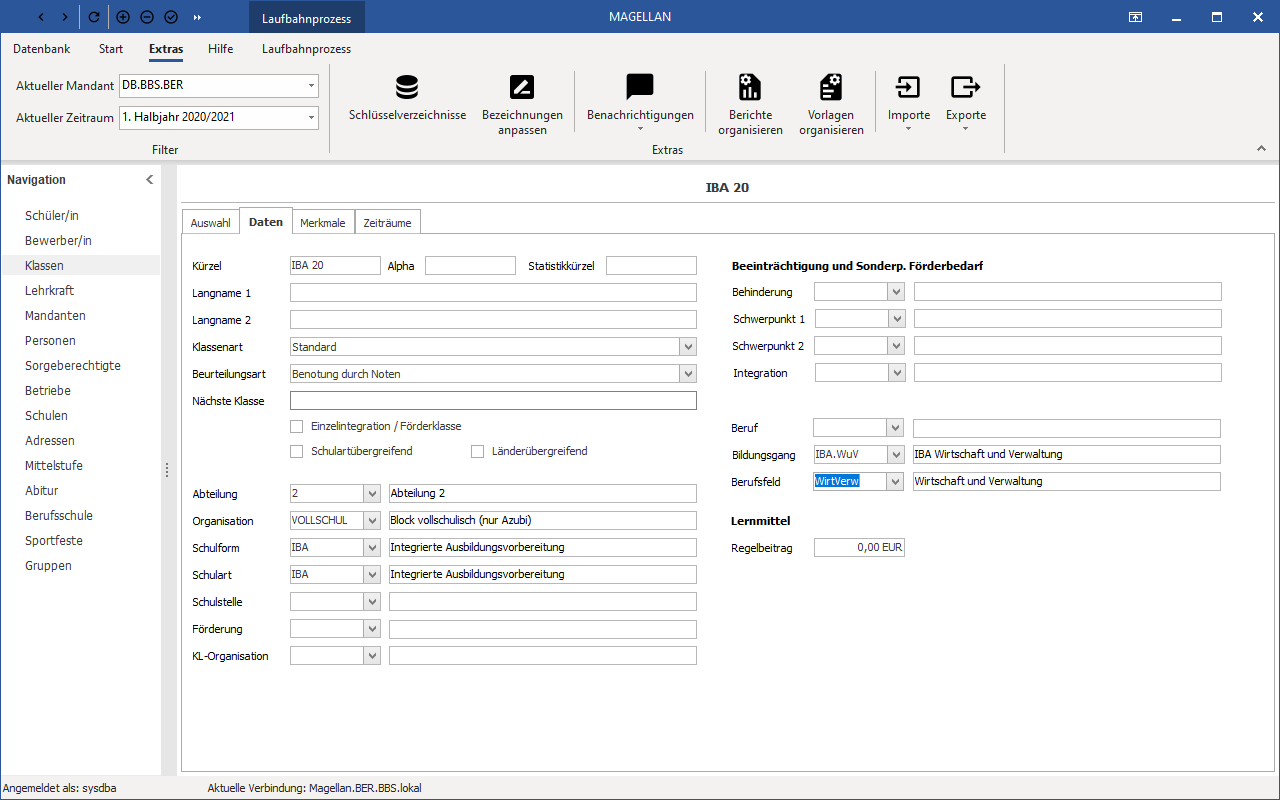
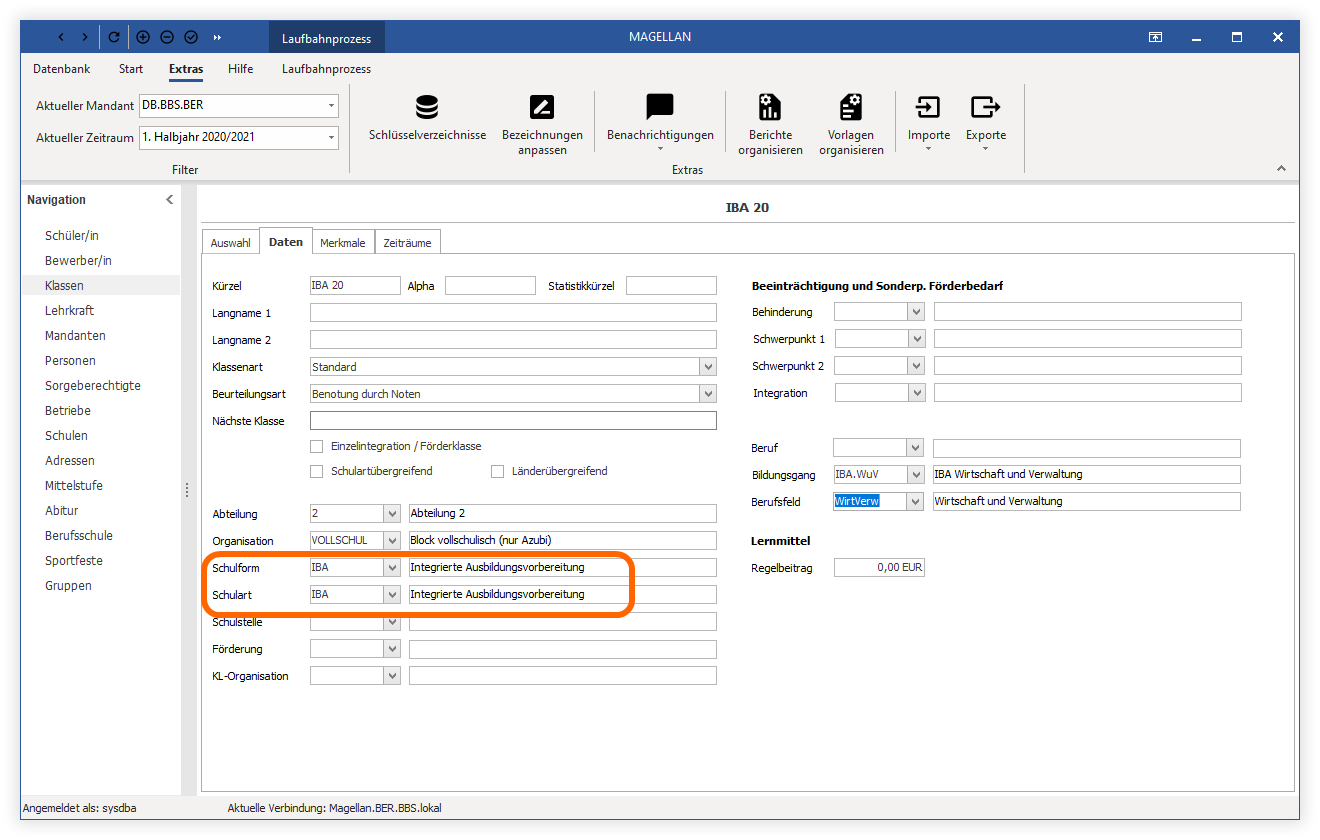
no message

Changed region(s): [[0.0, 0.0, 1.0, 1.0], [0.0, 0.9375, 0.0938, 1.0]]

diff --git a/docs/berichte/zeugnisse/ber/BER-Schul Z 302 (11.19).md b/docs/berichte/zeugnisse/ber/BER-Schul Z 302 (11.19).md
@@ -2,13 +2,38 @@
 
 Schul Z 302 - Zeugnis der Qualifikationsphase der gymnasialen Oberstufe (Gymnasium, ISS, Gemeinschaftsschule, berufliches Gymnasium) – (11.19)
 
-## Fehltage und/oder Fehlstunden
+## Ausdruck
 
-`Schueler > Zeugnis > Details > Fehltage und/oder Fehlstunden`
+Der Bericht muss aus dem Menu `Drucken > Zeugnis Drucken` (Strg + Z) gedruckt werden.
+Das Zeugnis/der Bericht muss aus dem Menü "Schüler" gedruckt werden.
 
-Die Angabe der Fehltage und/oder der Fehlstunden muss im entsprechenden Zeitraum im Menü `Schüler > Zeugnis > Details` in den Feldern "Fehltage", "davon unentschuldigt", "Fehlstunden" und "davon unentschuldigt" erfolgen.
+### G8/G9 Zeugnis
 
-## Aufgabenbereich
+`Klassen > Merkmale > Merkmal S4`
+
+Das Zeugnis kann sowohl für G8 als auch G9 genutzt werden.Tragen Sie im Menü  `Klasse > Merkmale` die im Feld „Merkmal S4“ für "G8"bitte "G8"  und für  "G9"bitte "G9" ein.
+
+Grundlage hierfür bildet das `Schlüsselverzeichnis > Klassenmerkmale`. Ergänzen Sie es um die Einträge "G8" und "G9".
+
+## Zeiträume
+
+`Extras > Schlüsselverzeichnis > Zeiträume > Ausdruck 1`
+
+Die Ausgabe des Schuljahres erfolgt aufgrund der Definition des aktuellen Zeitraums in MAGELLAN `Schlüsselverzeichnis > Zeiträume`. Ausgegeben wird hierbei der Eintrag in der Spalte "Ausdruck1".
+
+## Benotung
+
+`Klassen > Daten > Beurteilungsart`
+
+Im Menü "Klassen" muss bei der Klasse des Schülers auf der Registerkarte Daten im Feld "Beurteilungsart" "Benotung durch Punkte" angegeben sein.
+
+## Schriftart
+
+Damit das Zeugnis/der Bericht korrekt ausgedruckt wird, muss die vom Senat für den Zeugnisdruck vorgegebene Schriftart SenBJS auf Ihrem Rechner installiert sein.
+
+## Aufgabenbereich, Unterrichtsarten
+
+### Aufgabenbereich
 
 `Extras > Schlüsselverzeichnisse > Fächer > Aufgabenbereich`
 
@@ -22,7 +47,7 @@ mathem.-nat.-technisch | Mathem.-naturwissenschaftl.-techn. Aufgabenfeld
 Sport | Weitere Fächer
 Religion | Weitere Fächer
 
-## Unterrichtsarten
+### Unterrichtsarten
 
 `Extras > Schlüsselverzeichnisse > Unterrichtsarten`
 
@@ -35,94 +60,36 @@ Kürzel | Schlüssel | Zeugnisbereich
 LK | LK | Leistungskurse
 GK | GK | Grundkurse
 
-## Merkmale für Zeugnisbemerkungen
+## Schulleiter, Tutor, Lehrer
 
-`Schüler > Zeugnis > Bemerkungen/Formulare > Merkmale`
+`Mandanten > Daten > Schulleiter`<br/>`Schüler > Zeugnis > Details > Tutor`
 
-Bei den Zeugnisbemerkungen müssen verschiedene Typen der Bemerkung unterschieden werden. Die Unterscheidung erfolgt durch den Eintrag in der Spalte "Merkmal" unter Schlüsselverzeichnis Zeugnisbemerkungen, falls es sich um allgemeingültige Zeugnisbemerkungen handelt, oder beim Schüler, falls Sie diesem eine individuelle Zeugnisbemerkung zuweisen möchten. Die Zuweisung von Zeugnisbemerkungen erfolgt im Menü `Schüler > Zeugnis > Bemerkungen/Formulare`. Wenn Sie die Schaltfläche "Hinzufügen" anklicken, können Sie eine Zeugnisbemerkung auswählen und zuweisen. Erfolgt keine Eingabe in der Spalte "Merkmal", so wird die Bemerkung unter "allgemeinen Bemerkungen" auf dem Zeugnisdruck ausgegeben.
+Tragen Sie den Schulleiter (analog Tutor) ein, Sie können dabei in der Liste auf einen im Menü `Lehrer` erfassten Datensatz zugreifen. Bitte stellen Sie sicher, dass dem ausgewählten Lehrerdatensatz das Geschlecht zugewiesen wurde.
 
-Folgende Kürzel im Feld "Merkmal" dürfen für den Zeugnisdruck verwendet werden:
+## Mandanten
 
-## Bemerkungstext zur Ausgabe eines Beiblattes
-
-`Schüler > Zeugnis > Bemerkungen/Formulare > Merkmale`
-
-Die Ausgabe des Bemerkungstext: "Ein Beiblatt (Schul Z 620) ist Bestandteil dieses Zeugnisses:
-
-☐ ja
-
-☐ nein
-
-1)." wird wie folgt gesteuert:
-
-Liegt eine Zeugnisbemerkung mit dem Merkmal "Beiblatt" beim Schüler vor, kommt der Text in der Bemerkung: “Ein Beiblatt (Schul Z 620) ist Bestandteil dieses Zeugnisses.”
-
-Liegt dieses Merkaml nicht vor, kommt der Text in der Bemerkung: “Ein Beiblatt (Schul Z 620) ist nicht Bestandteil dieses Zeugnisses.”
-
-## Schulname
+### Schulname 1
 
 `Mandanten > Daten > Name 1`
 
 Tragen Sie die Bezeichnung Ihrer Schule im Menü "Mandanten" auf der Registerkarte "Daten 1" im Feld "Name
 1" ein.
 
-## Zeiträume
+### Schulname 2
 
-`Extras > Schlüsselverzeichnis > Zeiträume > Ausdruck 1`
+`Mandanten > Daten > Name 2`
 
-Die Ausgabe des Schuljahres erfolgt aufgrund der Definition des aktuellen Zeitraums in MAGELLAN `Schlüsselverzeichnis > Zeiträume`. Ausgegeben wird hierbei der Eintrag in der Spalte "Ausdruck1".
+Tragen Sie die Namenszusätze Ihrer Schule im Menü `Mandanten > Daten 1` im Feld "Name 2" ein.
 
-## Zeugnisdatum
-
-`Schüler > Zeugnis > Details > Zeugnisdatum`
-
-Im entsprechenden Zeitraum muss das Zeugnisdatum im Menü `Schüler > Zeugnis > Details` im Feld "Zeugnisdatum" eingetragen sein. Das Zeugnisdatum kann auch per Sammelzuweisung zugewiesen werden, den Aufruf für die Sammelzuweisung finden Sie am oberen Rand der Karte `Details`.
-
-## Ausdruck
-
-Das Zeugnis/der Bericht muss aus dem Menü "Schüler" gedruckt werden.
-
-## Fächerpositionierung
-
- `Schüler > Zeugnis > Fächer (Position) bzw. Abitur > Qualifikation (Position)`
-
-Für die Sortierung der Fächer auf den Zeugnissen muss im Menü "Schüler" bei jedem Schüler auf der Registerkarte Zeugnis > Fächer bzw. im Menü Abitur bei jedem Schüler auf der Registerkarte "Qualifikation" pro
-Fach eine Position in der Spalte "Position" angegeben werden.
-
-## Zeugnisbemerkungen
-
-`Schüler > Zeugnis > Formulare/Zeugnisbemerkungen`
-
-Die Zuweisung von Zeugnisbemerkungen erfolgt im Menü `Schüler > Zeugnis > Formulare/Zeugnisbemerkungen`. Wenn Sie die Schaltfläche "Hinzufügen" anklicken, können Sie eine Zeugnisbemerkung definieren, die ausschließlich für den markierten Schüler gültig ist oder eine zuvor in den Verzeichnissen definiert allgemeingültige Zeugnisbemerkung auswählen und zuweisen.
-Für die Ausgabe der Zeugnisbemerkungen muss über das Feld "Position" eine Reihenfolge (Nummerierung) vorgegeben werden. Z.B. für die Ausgabe der ersten Bemerkung "1", für die Ausgabe der zweiten Bemerkung "2" usw.
-
-## Bezirk der Schule
+### Bezirk der Schule
 
 `Mandanten > Daten 1 > Name 3`
 
 Tragen Sie den Bezirk Ihrer Schule im Menü `Mandanten > Daten 1` im Feld "Name 3" ein.
 
-## Benotung
+## Fächer
 
-`Klassen > Daten > Beurteilungsart`
-
-Im Menü "Klassen" muss bei der Klasse des Schülers auf der Registerkarte Daten im Feld "Beurteilungsart" "Benotung durch Punkte" angegeben sein.
-
-## Schriftart
-
-Damit das Zeugnis/der Bericht korrekt ausgedruckt wird, muss die vom Senat für den Zeugnisdruck vorgegebene Schriftart SenBJS auf Ihrem Rechner installiert sein.
-
-## Versäumnisse
-
-`Schüler > Zeugnis > Details > Versäumnisse`
-
-Tragen Sie die "Verspätungen" im entsprechenden Zeitraum im Menü `Schüler > Zeugnis > Details` im Feld "Versäumnisse" ein.
-
-## Ausdruck
-
-Der Bericht muss aus dem Menu `Drucken > Zeugnis Drucken` (Strg + Z) gedruckt werden.
-
-## Fächerkategorie
+### Fächerkategorie
 
 `Extras > Schlüsselverzeichnisse > Fächer > Kategorie`
 
@@ -150,25 +117,75 @@ Jedes Fach muss in MAGELLAN im `Schlüsselverzeichnis > Fächer` in Spalte "Kate
 |SportTheorie|
 |Seminar|
 
-## Seminarfach
+### Fächerpositionierung
+
+ `Schüler > Zeugnis > Fächer (Position) bzw. Abitur > Qualifikation (Position)`
+
+Für die Sortierung der Fächer auf den Zeugnissen muss im Menü "Schüler" bei jedem Schüler auf der Registerkarte Zeugnis > Fächer bzw. im Menü Abitur bei jedem Schüler auf der Registerkarte "Qualifikation" pro
+Fach eine Position in der Spalte "Position" angegeben werden.
+
+### Seminarfach
 
 `Extras > Schlüsselverzeichnisse > Fächer > Kategorie`
 
 Um das Seminarfach auszugeben, weisen Sie dem jeweiligen Fach im `Schlüsselverzeichnis > Fächer` im Feld "Kategorie" den Eintrag "Seminar" zu.
 
-## Schulname
-
-`Mandanten > Daten > Name 2`
-
-Tragen Sie die Namenszusätze Ihrer Schule im Menü `Mandanten > Daten 1` im Feld "Name 2" ein.
-
-## Kategorie der Fächer
+### Kategorie der Fächer
 
 `Extras > Schlüsselverzeichnisse > Fächer > Kategorie`
 
 Bitte versehen Sie Ihre Fächer im `Schlüsselverzeichnis > Fächer` in  Spalte "Kategorie" mit den dafür vorgesehenen Kategorien. Fremdsprachen weisen Sie aus dem Pull-Down-Menü „Fremdsprache“ zu.
 
-## Platzhalter in Zeugnisbemerkungen
+## Zeugnis > Details
+
+### Versäumnisse
+
+`Schüler > Zeugnis > Details > Versäumnisse`
+
+Tragen Sie die "Verspätungen" im entsprechenden Zeitraum im Menü `Schüler > Zeugnis > Details` im Feld "Versäumnisse" ein.
+
+### Zeugnisdatum
+
+`Schüler > Zeugnis > Details > Zeugnisdatum`
+
+Im entsprechenden Zeitraum muss das Zeugnisdatum im Menü `Schüler > Zeugnis > Details` im Feld "Zeugnisdatum" eingetragen sein. Das Zeugnisdatum kann auch per Sammelzuweisung zugewiesen werden, den Aufruf für die Sammelzuweisung finden Sie am oberen Rand der Karte `Details`.
+
+### Fehltage und/oder Fehlstunden
+
+`Schueler > Zeugnis > Details > Fehltage und/oder Fehlstunden`
+
+Die Angabe der Fehltage und/oder der Fehlstunden muss im entsprechenden Zeitraum im Menü `Schüler > Zeugnis > Details` in den Feldern "Fehltage", "davon unentschuldigt", "Fehlstunden" und "davon unentschuldigt" erfolgen.
+
+## Zeugnisbemerkungen
+
+### Zeugnisbemerkungen
+
+`Schüler > Zeugnis > Formulare/Zeugnisbemerkungen`
+
+Die Zuweisung von Zeugnisbemerkungen erfolgt im Menü `Schüler > Zeugnis > Formulare/Zeugnisbemerkungen`. Wenn Sie die Schaltfläche "Hinzufügen" anklicken, können Sie eine Zeugnisbemerkung definieren, die ausschließlich für den markierten Schüler gültig ist oder eine zuvor in den Verzeichnissen definiert allgemeingültige Zeugnisbemerkung auswählen und zuweisen.
+Für die Ausgabe der Zeugnisbemerkungen muss über das Feld "Position" eine Reihenfolge (Nummerierung) vorgegeben werden. Z.B. für die Ausgabe der ersten Bemerkung "1", für die Ausgabe der zweiten Bemerkung "2" usw.
+
+### Beiblatt
+
+`Schüler > Zeugnis > Bemerkungen/Formulare > Merkmale`
+
+Bei den Zeugnisbemerkungen müssen verschiedene Typen der Bemerkung unterschieden werden. Die Unterscheidung erfolgt durch den Eintrag in der Spalte "Merkmal" unter Schlüsselverzeichnis Zeugnisbemerkungen, falls es sich um allgemeingültige Zeugnisbemerkungen handelt, oder beim Schüler, falls Sie diesem eine individuelle Zeugnisbemerkung zuweisen möchten. Die Zuweisung von Zeugnisbemerkungen erfolgt im Menü `Schüler > Zeugnis > Bemerkungen/Formulare`. Wenn Sie die Schaltfläche "Hinzufügen" anklicken, können Sie eine Zeugnisbemerkung auswählen und zuweisen. Erfolgt keine Eingabe in der Spalte "Merkmal", so wird die Bemerkung unter "allgemeinen Bemerkungen" auf dem Zeugnisdruck ausgegeben.
+
+Folgende Kürzel im Feld "Merkmal" dürfen für den Zeugnisdruck verwendet werden:
+
+Die Ausgabe des Bemerkungstext: "Ein Beiblatt (Schul Z 620) ist Bestandteil dieses Zeugnisses:
+
+☐ ja
+
+☐ nein
+
+1)." wird wie folgt gesteuert:
+
+Liegt eine Zeugnisbemerkung mit dem Merkmal "Beiblatt" beim Schüler vor, kommt der Text in der Bemerkung: “Ein Beiblatt (Schul Z 620) ist Bestandteil dieses Zeugnisses.”
+
+Liegt dieses Merkmal nicht vor, kommt der Text in der Bemerkung: “Ein Beiblatt (Schul Z 620) ist nicht Bestandteil dieses Zeugnisses.”
+
+### Platzhalter
 
 `Schüler > Zeugnis > Bemerkungen/Formulare`und `Abitur > Abitur > Zeugnis > Zeugnisbemerkungen` und `Berufsschule > Zeugnisbemerkungen`
 
@@ -196,11 +213,3 @@ Platzhalter in MAGELLAN | Anzeige im Bericht
 `<<DerSchueler_DieSchuelerin>>` | Der Schüler/Die Schülerin je nach Geschlecht des Schülers)** 
 `<<derSchueler_dieSchuelerin>>` | der Schüler/die Schülerin (je nach Geschlecht des Schülers)** 
 `<<DemSchueler_DerSchuelerin>>` | Dem Schüler/Der Schülerin (je nach Geschlecht des Schülers)
-
-## G8/G9 Zeugnis
-
-`Klassen > Merkmale > Merkmal S4`
-
-Das Zeugnis kann sowohl für G8 als auch G9 genutzt werden.Tragen Sie im Menü  `Klasse > Merkmale` die im Feld „Merkmal S4“ für "G8"bitte "G8"  und für  "G9"bitte "G9" ein.
-
-Grundlage hierfür bildet das `Schlüsselverzeichnis > Klassenmerkmale`. Ergänzen Sie es um die Einträge "G8" und "G9".

diff --git a/docs/03.ber/ber-iba-as-2020dws.md b/docs/03.ber/ber-iba-as-2020dws.md
@@ -1,6 +1,6 @@
 # BER-IBA-AS-2020.dws
 
-[1]:/assets/images/Berlin/iba01.png "Noteneingabe der Besonderen Lernleistung"
+[1]:/assets/images/Berlin/iba01.png "Schulform und Schulart der Klasse"
 [2]:/assets/images/Berlin/iba02.png "Geben Sie hier die Berechnungsverordnung mit der Kategorie „Versetzung“ ein."
 [3]:/assets/images/Berlin/iba03.png "`Schüler > Zeugnis > Fächer` Unterrichtsart "BÜ", "FachT" und "FachP""
 [4]:/assets/images/Berlin/iba04.png "`Schüler > Zeugnis > Fächer` Fachstatus "WahlB""
@@ -47,7 +47,7 @@ folgendes Kürzel an:
 
 Tragen Sie die Werte bitte für die IBA-Klassen im Menü `Klassen > Daten > Schulform` und `Klassen > Daten > Schulart` ein.
 
-![1][Noteneingabe der Besonderen Lernleistung]
+![1][Schulform und Schulart der Klasse]
 
 ### 2. Berechnungsverordnung definieren
 
